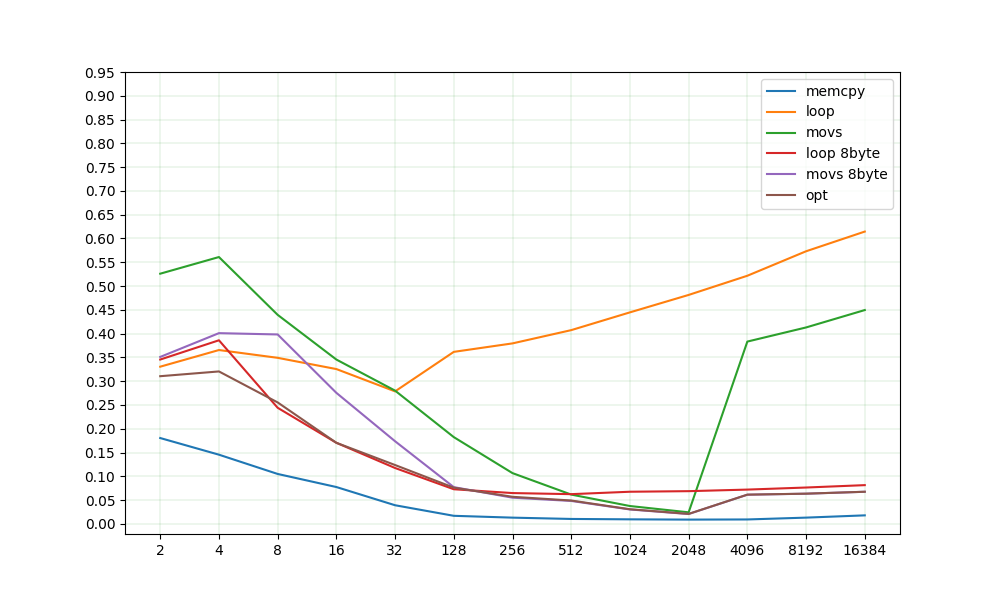
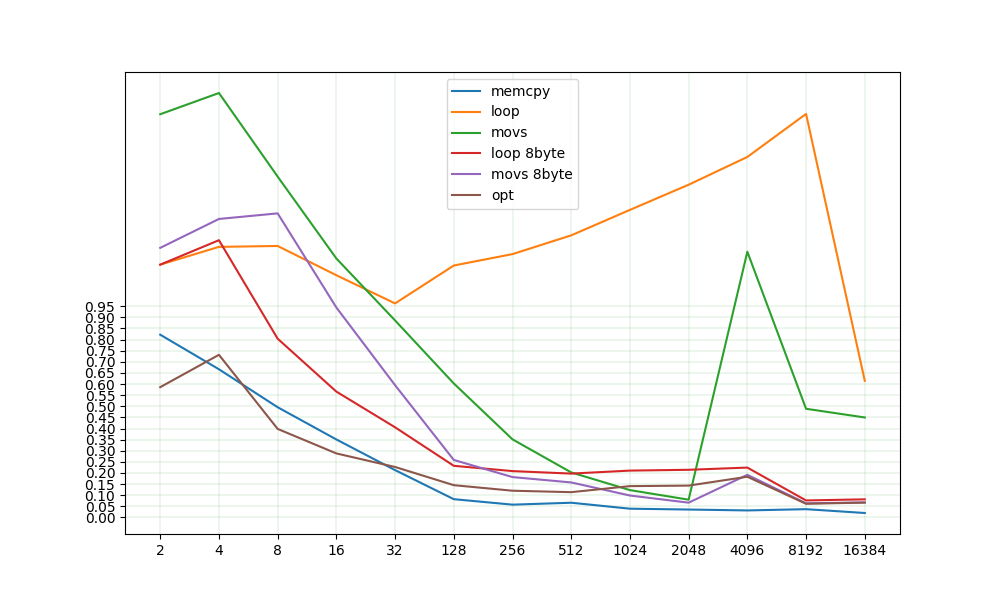
memset

diff --git a/main.c b/main.c
@@ -10,31 +10,27 @@
 int COPIES = 8192 * 100 * 100;
 
 int SIZES[SIZES_CASES] = {2, 4, 8, 16, 32, 128, 256, 512, 1024, 2048, 4096, 8192, 8192 * 2};
-char* DST[SIZES_CASES];
 char* SRC[SIZES_CASES];
 
 void setup() {
     for (int i = 0; i < SIZES_CASES; i++) {
         SRC[i] = (char*) malloc(SIZES[i]);
-        DST[i] = (char*) malloc(SIZES[i]);
     }
 }
 
-inline void test_memcpy(char* d, char *s, int c) { memcpy(d, s, c); }
+void test_memset(char* d, int c, size_t n) { memset(d, c, n); }
 
-extern void test_loop(char* d, char* s, int c);
+extern void test_loop(char* d, int c, size_t n);
 
-extern void test_movs(char *d, char *s, int c);
+extern void test_loopq(char* d, int c, size_t n);
 
-extern void test_loop_8s(char *d, char *s, int c);
+extern void test_repstosb(char* d, int c, size_t n);
 
-extern void test_movs_8s(char *d, char *s, int c);
+extern void test_repstosq(char* d, int c, size_t n);
 
-extern void test_opt(char *d, char *s, int c);
-
-#define TEST_CASES 6
-void (*testfs[TEST_CASES])(char*, char*, int) 
-    = {&test_memcpy, &test_loop, &test_movs, &test_loop_8s, &test_movs_8s, &test_opt};
+#define TEST_CASES 5
+void (*testfs[TEST_CASES])(char*, int, size_t) 
+    = {&test_memset, test_loop, test_loopq, test_repstosb, test_repstosq};
 
 int main() {
     setup();
@@ -45,10 +41,10 @@ int main() {
         printf("%d ", SIZES[s]);
         for (int t = 0; t < TEST_CASES; t++) {
             int its = 100;
-            void (*func)(char*, char*, int) = testfs[t];
+            void (*func)(char*, int, size_t) = testfs[t];
 
             clock_gettime(CLOCK_REALTIME, &start);
-            for (int i = 0; i < its; i++) func(DST[s], SRC[s], SIZES[s]);
+            for (int i = 0; i < its; i++) func(SRC[s], 1, SIZES[s]);
             clock_gettime(CLOCK_REALTIME, &stop);
             double result = (stop.tv_sec - start.tv_sec) * 1e6 + (stop.tv_nsec - start.tv_nsec) / 1e3;
 

diff --git a/plot.py b/plot.py
@@ -5,7 +5,7 @@ import matplotlib.pyplot as plt
 import math
 import numpy as np
 
-LABELS = ["memcpy", "loop", "movs", "loop 8byte", "movs 8byte", "opt"]
+LABELS = ["memcpy", "loop", "loop 8byte", "stosB", "stosQ"]
 
 xpoints = []
 ypoints = [list() for _ in range(0, len(LABELS))]
@@ -13,11 +13,11 @@ ypoints = [list() for _ in range(0, len(LABELS))]
 for line in fileinput.input():
     numbers = list(map(float, line.split()))
     xpoints.append(int(numbers[0]))
-    factor = numbers[0] / math.log2(numbers[0])
+    factor = math.log(numbers[0], 1.25)**2 / numbers[0]
 
     max_result = max(*(numbers[1:]))
     for i, r in enumerate(numbers[1:]):
-        ypoints[i].append(r / factor)
+        ypoints[i].append(r * factor)
 
 xticks = range(len(xpoints))
 for i, yset in enumerate(ypoints):
@@ -25,8 +25,9 @@ for i, yset in enumerate(ypoints):
 
 plt.legend(LABELS)
 plt.xticks(xticks, xpoints)
-plt.yticks(np.arange(0, 1.0, 0.05))
+#plt.yticks(np.arange(0, 1.0, 0.05))
 plt.grid(color='g', linestyle='-', linewidth=0.1)
 
 plt.gcf().set_size_inches(10, 6)
-plt.savefig('plot.png')
+#plt.savefig('plot.png')
+plt.show()
